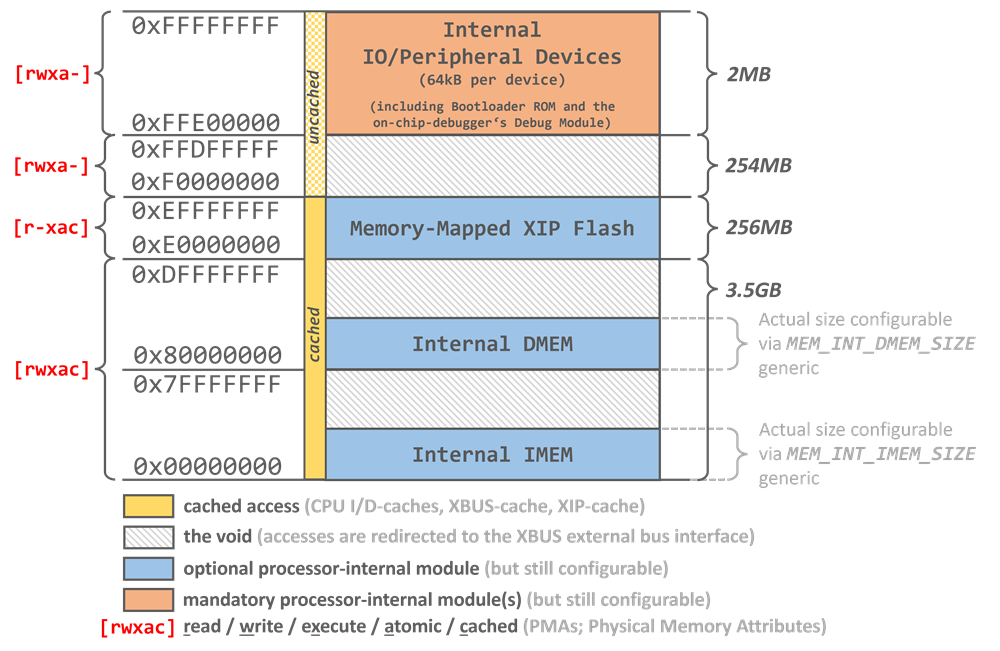
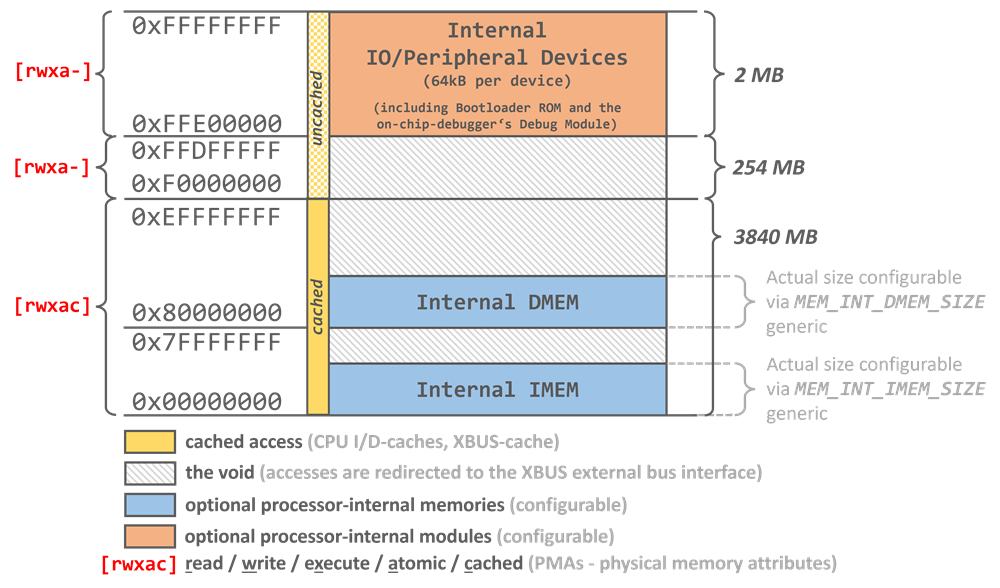
⚠ [docs] remove XIP module

Changed region(s): [[0.0, 0.0, 0.992, 0.9796]]

diff --git a/README.md b/README.md
@@ -182,7 +182,6 @@ allows booting application code via UART, TWI or from external SPI flash
 
 * true-random number generator ([TRNG](https://stnolting.github.io/neorv32/#_true_random_number_generator_trng)) based
 on the [neoTRNG](https://github.com/stnolting/neoTRNG)
-* execute-in-place module ([XIP](https://stnolting.github.io/neorv32/#_execute_in_place_module_xip)) to execute code right out of a SPI flash
 * custom functions subsystem ([CFS](https://stnolting.github.io/neorv32/#_custom_functions_subsystem_cfs))
 for custom tightly-coupled co-processors, accelerators or interfaces
 * direct memory access controller ([DMA](https://stnolting.github.io/neorv32/#_direct_memory_access_controller_dma)) for CPU-independent
